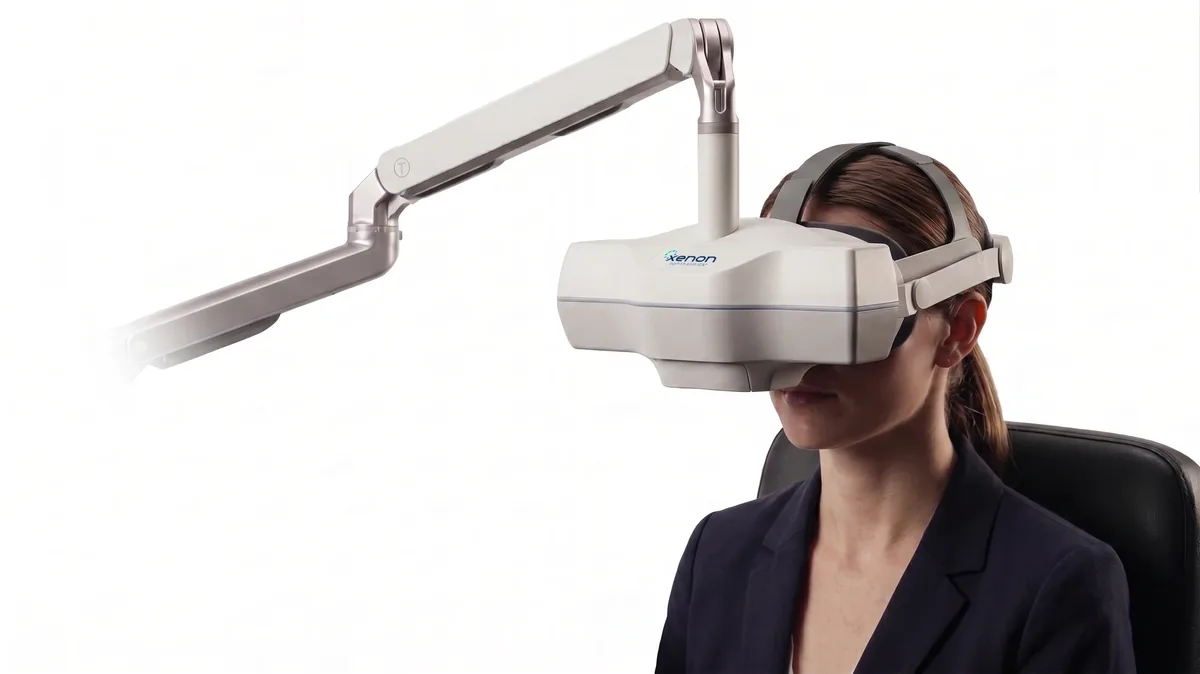
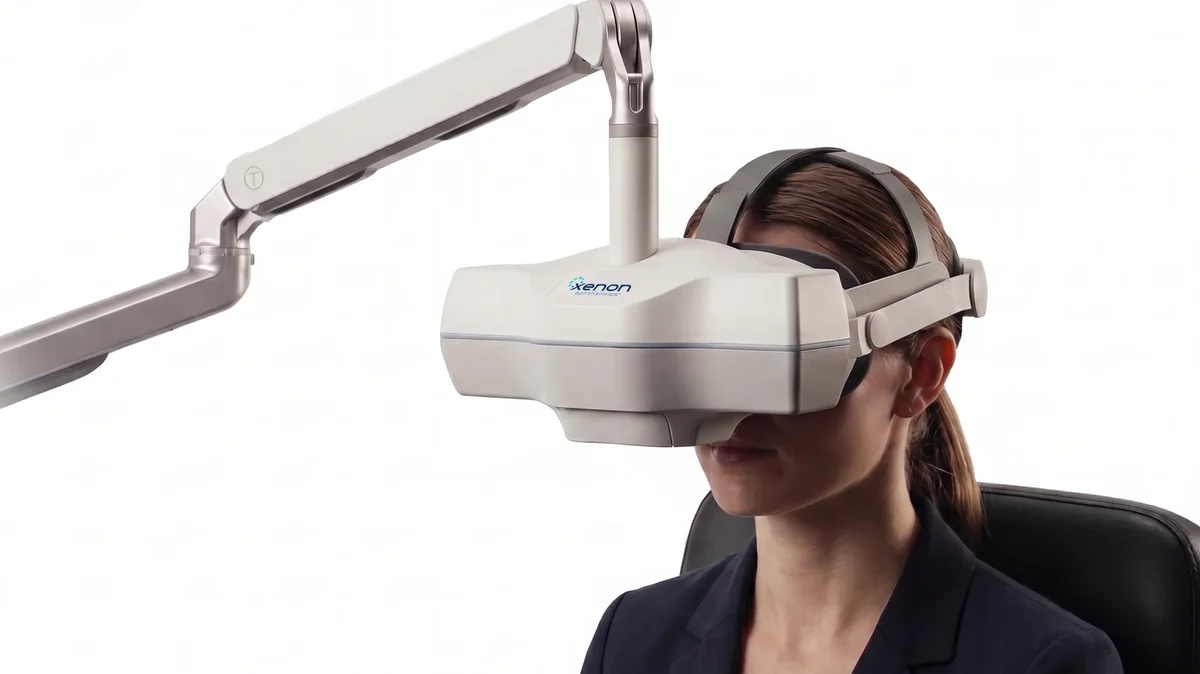
- Redesigned the 12-item "Also in development" test list from a run-together mid-dot sentence into a wrapped grid of clearly separated tag chips — still visually secondary (muted, smaller) to the main 7-test grid, but each item now reads distinctly. - Zoomed the new xoExam hero image ~20% tighter, c
Next Action Items:
- **Wide-Monitor Audit**: Check the handful of other pages (Home, About, Iris, Lab, System) that use the same two-sentence headline pattern, in case they wrap awkwardly on your 30" monitor too
- **Remote Exam Visual**: Add a simple diagram or device-photo pairing for the new Remote Exams section so it's not text-only
- **Sibling Pages**: Give Iris/Fit/Lab the same copy-refresh treatment now that xoExam sets the new voice

diff --git a/frontend/src/pages/products/Exam.jsx b/frontend/src/pages/products/Exam.jsx
@@ -196,9 +196,16 @@ export default function Exam() {
               hardware and no replacement cycle. A practice that buys xoExam today
               gains capability over time rather than watching a fixed instrument age.
             </p>
-            <p data-testid="future-tests-list" className="mt-6 max-w-3xl text-[13.5px] leading-relaxed text-fg/35">
-              {FUTURE_TESTS.join(" · ")}
-            </p>
+            <div data-testid="future-tests-list" className="mt-6 flex max-w-3xl flex-wrap gap-2.5">
+              {FUTURE_TESTS.map((t) => (
+                <span
+                  key={t}
+                  className="border border-fg/10 bg-fg/[0.02] px-3 py-1.5 font-mono text-[11px] uppercase tracking-wide text-fg/45 transition-colors duration-300 hover:border-fg/25 hover:text-fg/70"
+                >
+                  {t}
+                </span>
+              ))}
+            </div>
           </Reveal>
         </div>
       </section>

diff --git a/memory/PRD.md b/memory/PRD.md
@@ -1,6 +1,6 @@
 # Xenon Ophthalmics — Product Requirements & Session State
 
-Last handoff: 2026-09-01 (xoExam: wrap fix + new hero image)
+Last handoff: 2026-09-01 (xoExam: future-tests chip list + hero zoom)
 
 ---
 
@@ -353,3 +353,9 @@ User provided vendor code fragments (script tag + `<tint-vto>` custom element + 
 - **Bad wrap fix:** on wide viewports (reproduced at 2560px, matching user's 30" monitor), the "The Workflow" section headline ("Run it three ways. The practitioner confirms every result.") was rendered as one `text-wrap:balance` flow, which pulled the word "The" up onto the first line ("Run it three ways. The" / "practitioner confirms every result."), splitting a sentence awkwardly. Root cause: the shared `MaskTextInView`/word-reveal always re-joins words with a plain breakable space regardless of source punctuation, so there's no way to "glue" words together within one call. Fix: split into two separate stacked `MaskTextInView` calls (one per sentence) so each sentence balances independently and can never merge onto the same line. Verified fixed at 2560px. Audited other headlines sitewide for the same two-sentence pattern — a few exist (About.jsx, Home.jsx, Iris.jsx, Lab.jsx, System.jsx) but weren't reported as broken, so left untouched per scope (not proactively rewritten).
 - **New hero image:** user supplied a new hero photo for the xoExam page (woman seated wearing the device, arm extending off-frame). Optimized via PIL (quality 82, method 6): saved as `/hero/xoexam-wearing.webp` (2000×1123, 45KB) + `/hero/xoexam-wearing-1200.webp` (1200×674, 22.6KB) responsive variant — both smaller than the previous hero asset. Old `/hero/xoexam-arm.webp` left untouched since it's still used on `Home.jsx`. Wired into `Exam.jsx`'s `ProductHero` `image`/`imageSrcSet`/`imageAlt` props. Renders correctly with the existing ghosted/right-anchored hero treatment, no code changes needed to `ProductHero.jsx` itself.
 - Verified via `CI=true yarn build` (clean) + screenshot at 2560px viewport.
+
+## xoExam: future-tests chip list + hero zoom (2026-09-01, this session) — DONE
+
+- **"Also in development" list redesign:** the 12-item future test list read as a run-together sentence (mid-dot separated inline text). Replaced with a `flex-wrap` grid of individually bordered tag chips (sharp corners, muted `text-fg/45` mono uppercase, hover state) — each test is now a clearly separated, scannable item, still visually secondary to the main 7-test bordered grid above it (smaller, lighter, no numbering) but no longer "run together."
+- **Hero image zoom:** re-cropped the new xoExam hero photo ~20% tighter (centered on the device/face, source crop box computed via PIL then upscaled back to 2000×1123 via Lanczos) so the subject fills more of the frame at the default (pre-scroll) hero state. Regenerated both `/hero/xoexam-wearing.webp` (51KB) and `-1200.webp` (27KB) variants. No changes to `ProductHero.jsx`'s shared scroll-scale logic (kept scoped to this one image, not a sitewide zoom change).
+- Verified via build + screenshot at 1920px: chip list renders cleanly wrapped, hero crop visibly tighter/closer.
